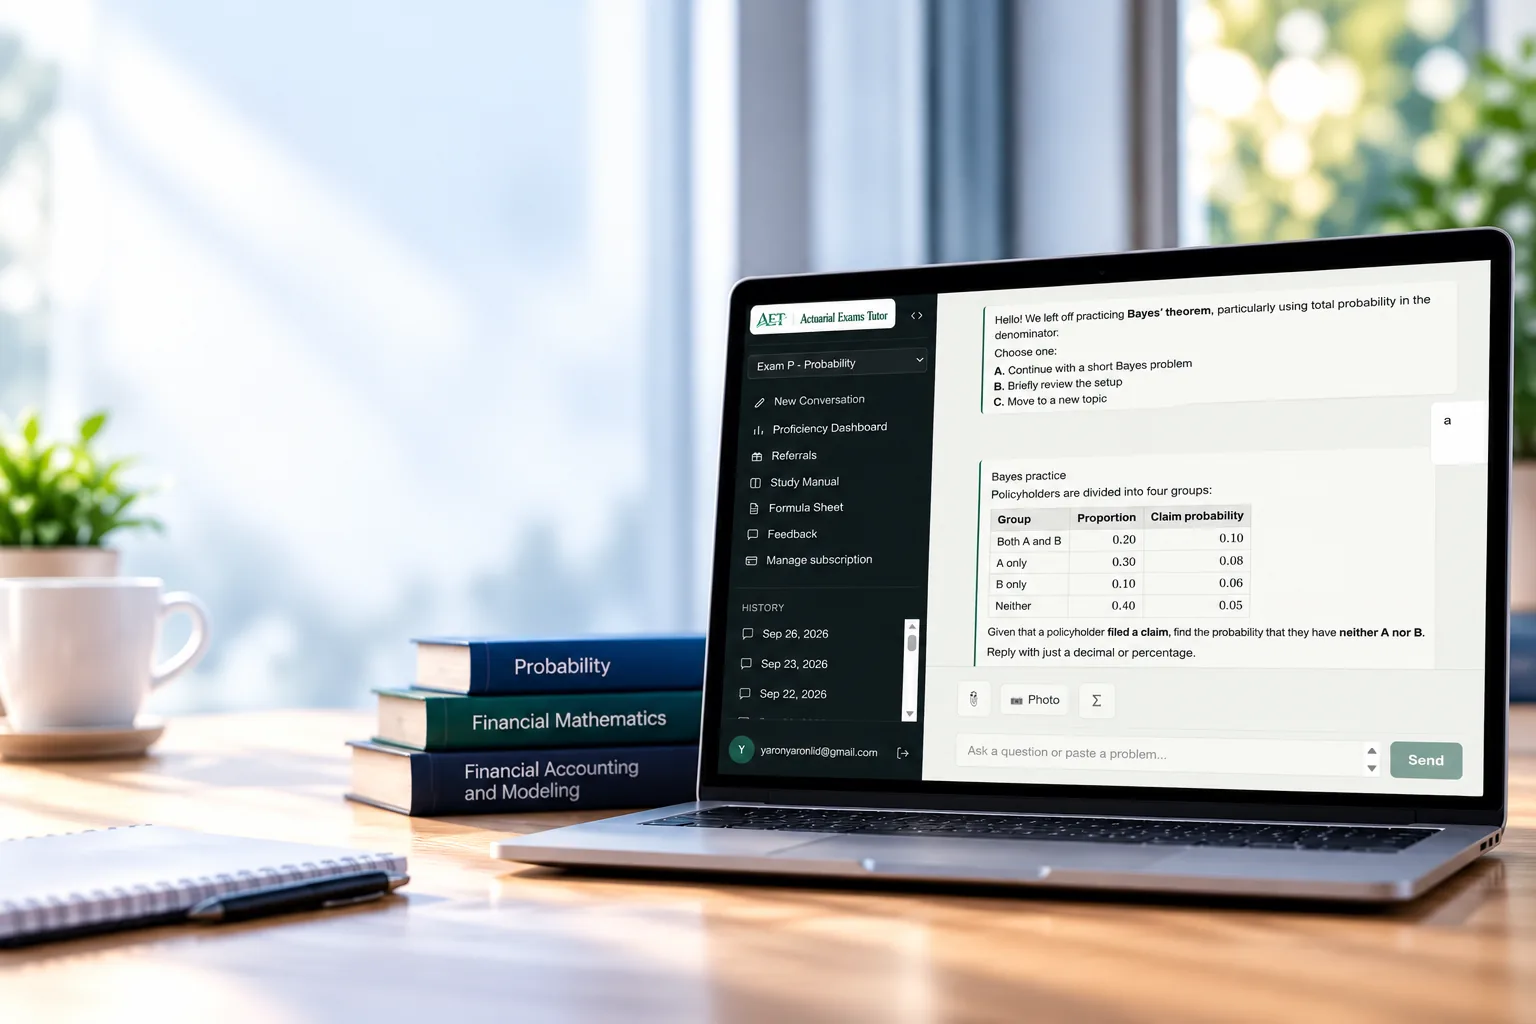
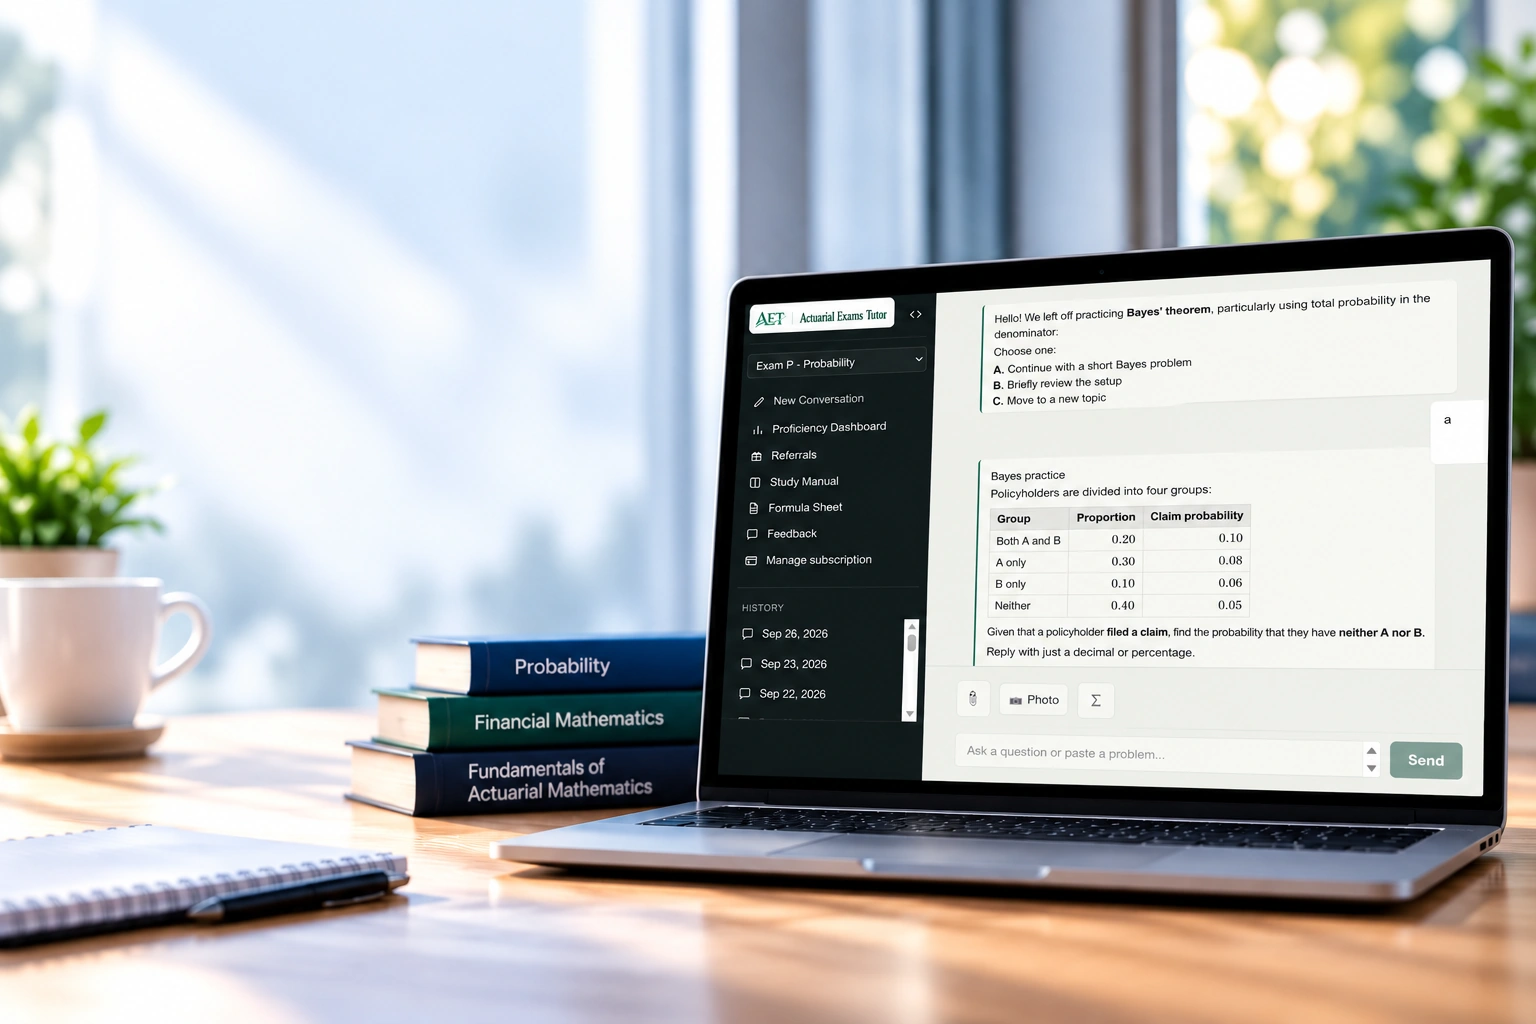
Swap in the updated landing hero image
New photo drops the personal email from the laptop screen and fixes
the FAM book spine to "Fundamentals of Actuarial Mathematics". The CSS
URL gets a ?v=2 so browsers don't keep serving the cached old image.

diff --git a/frontend/src/app/globals.css b/frontend/src/app/globals.css
@@ -2019,7 +2019,7 @@ body > * {
   /* Anchored to the photo's bottom: when the hero is shorter than the
      photo's aspect, the crop comes off the window at the top, never the
      laptop. */
-  background: url("/landing-hero.webp") right bottom / cover no-repeat;
+  background: url("/landing-hero.webp?v=2") right bottom / cover no-repeat;
   -webkit-mask-image: linear-gradient(90deg, transparent 0, #000 38%);
   mask-image: linear-gradient(90deg, transparent 0, #000 38%);
 }
@@ -2277,7 +2277,7 @@ body > * {
     padding-bottom: 64vw;
     background:
       linear-gradient(#fff 0, #fff calc(100% - 66vw), rgba(255, 255, 255, 0) calc(100% - 56vw)),
-      #f3f6fb url("/landing-hero.webp") center bottom / 100% auto no-repeat;
+      #f3f6fb url("/landing-hero.webp?v=2") center bottom / 100% auto no-repeat;
   }
 }
 @media (max-width: 800px) {
